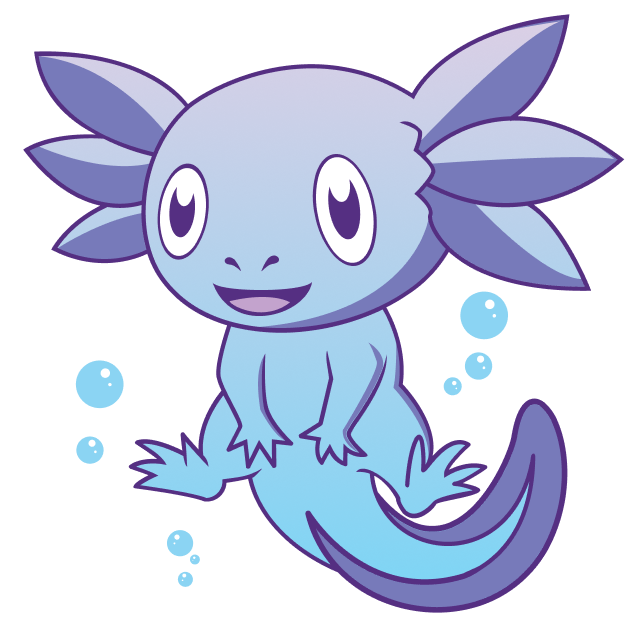
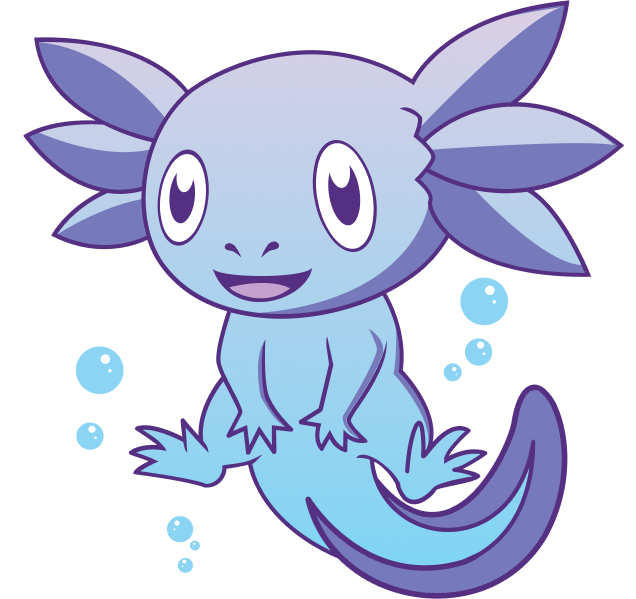
updated zarf image position

diff --git a/src/pages/coming-soon.tsx b/src/pages/coming-soon.tsx
@@ -38,7 +38,8 @@ function ComingSoon(): ReactElement {
               width: { xs: '90%', sm: '55%', md: '50%' },
               height: '50%',
               marginLeft: 'auto',
-              marginRight: 'auto'
+              marginRight: 'auto',
+              paddingTop: '2%'
             }}
           >
             <Typography
@@ -95,7 +96,7 @@ function ComingSoon(): ReactElement {
               height: '50%',
               backgroundImage: `url(${ZarfBubbles})`,
               backgroundSize: { xs: 'contain', md: '65%' },
-              backgroundPosition: 'center',
+              backgroundPosition: 'top',
               backgroundRepeat: 'no-repeat'
             }}
           ></Box>
